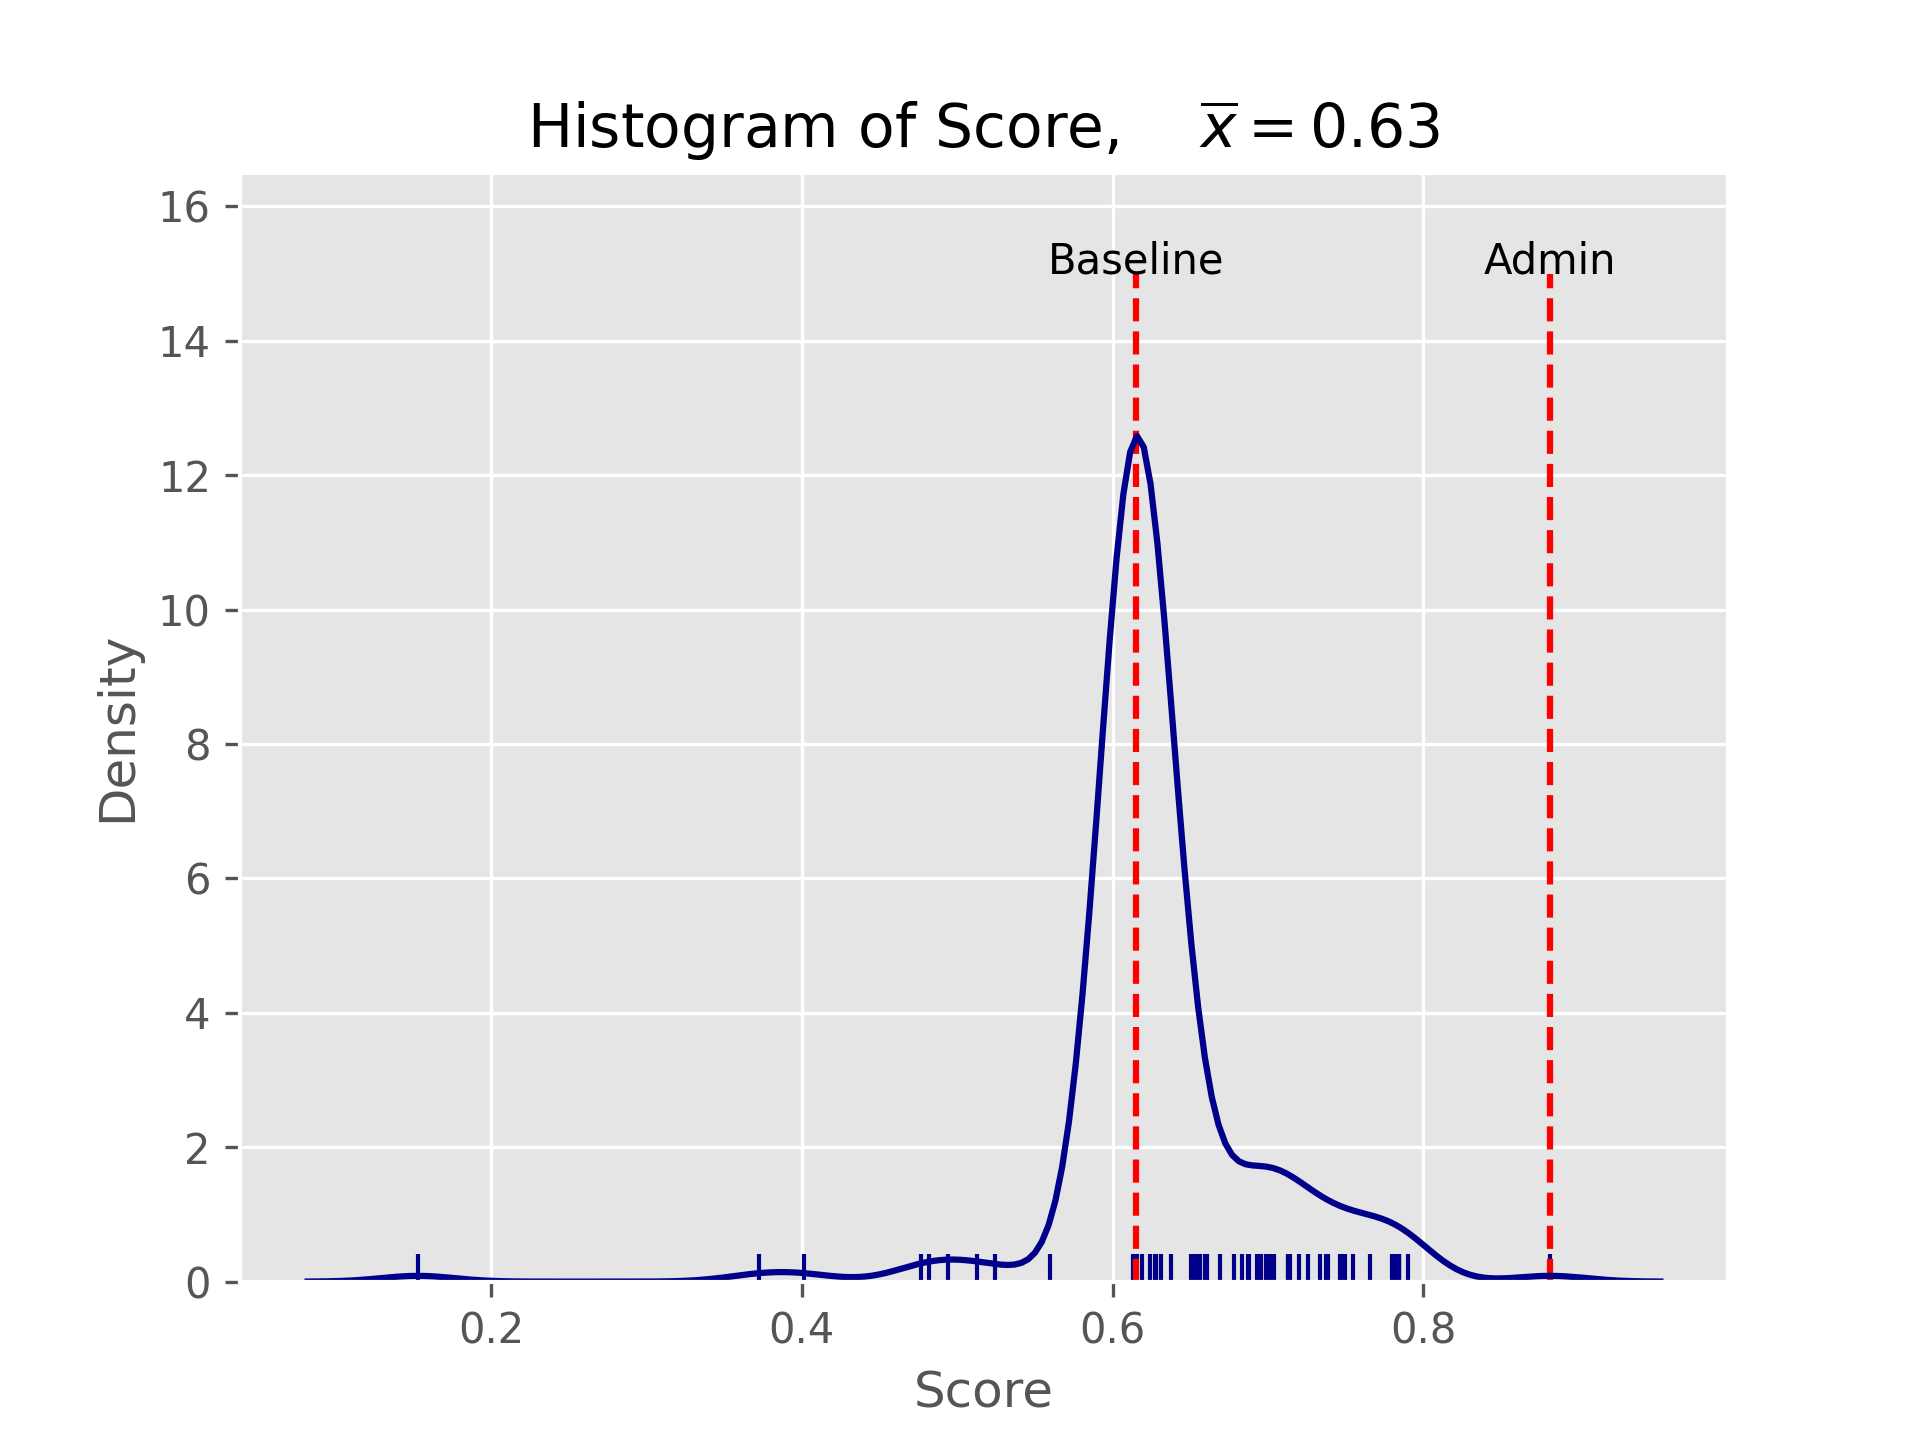
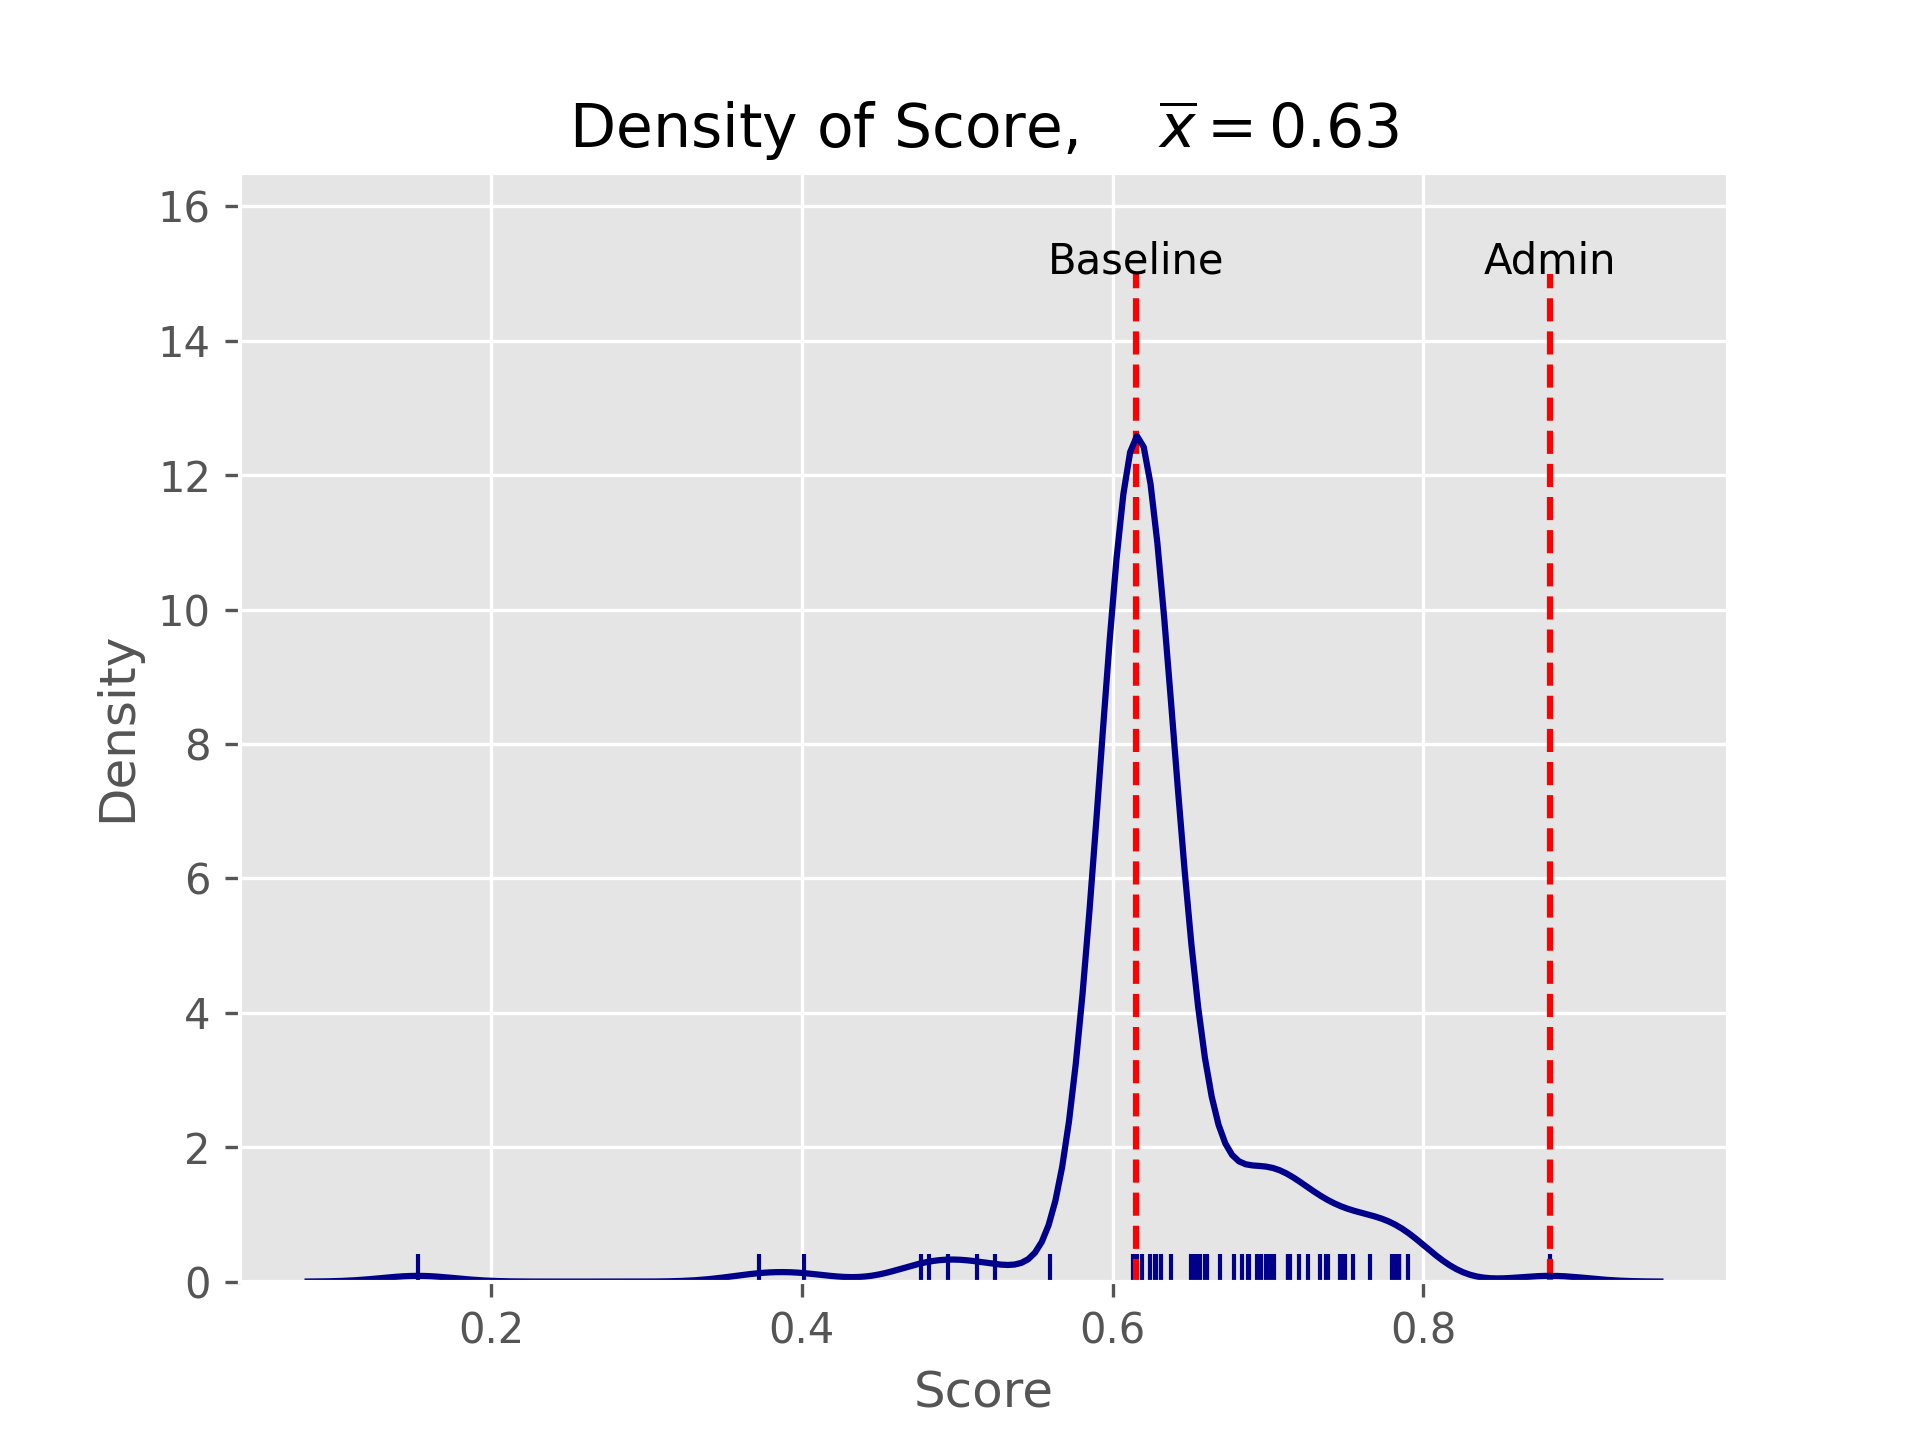
fix density

Changed region(s): [[0.2812, 0.0625, 0.5625, 0.125], [0.5938, 0.0625, 0.75, 0.125]]

diff --git a/kaggle_lead.py b/kaggle_lead.py
@@ -58,7 +58,7 @@ plt.savefig(os.path.join(cwd, "data/points_hist.png"), dpi = 300)
 plt.clf()
 sns.distplot([float(_[3]) for _ in result], kde = True, color = 'darkblue', rug = True, hist = False, norm_hist = True)
 plt.xlabel('Score')
-plt.title(r'Histogram of Score, $\quad \overline{x}=' + str(round(sum([float(_[3]) for _ in result])/len(result), 4)) +'$')
+plt.title(r'Density of Score, $\quad \overline{x}=' + str(round(sum([float(_[3]) for _ in result])/len(result), 4)) +'$')
 plt.vlines([0.61516, 0.88172], ymin = 0, ymax = 15, linestyles = "dashed", colors = "red")
 plt.annotate("Baseline", (0.61516, 15), ha = "center")
 plt.annotate("Admin", (0.88172, 15), ha = "center")

diff --git a/README.md b/README.md
@@ -1,6 +1,6 @@
 # ETC3250 Kaggle score
 
-**Last updated: May 11, 2021 18:20:13**
+**Last updated: May 11, 2021 18:21:29**
 
 ## Public leaderboard
 
